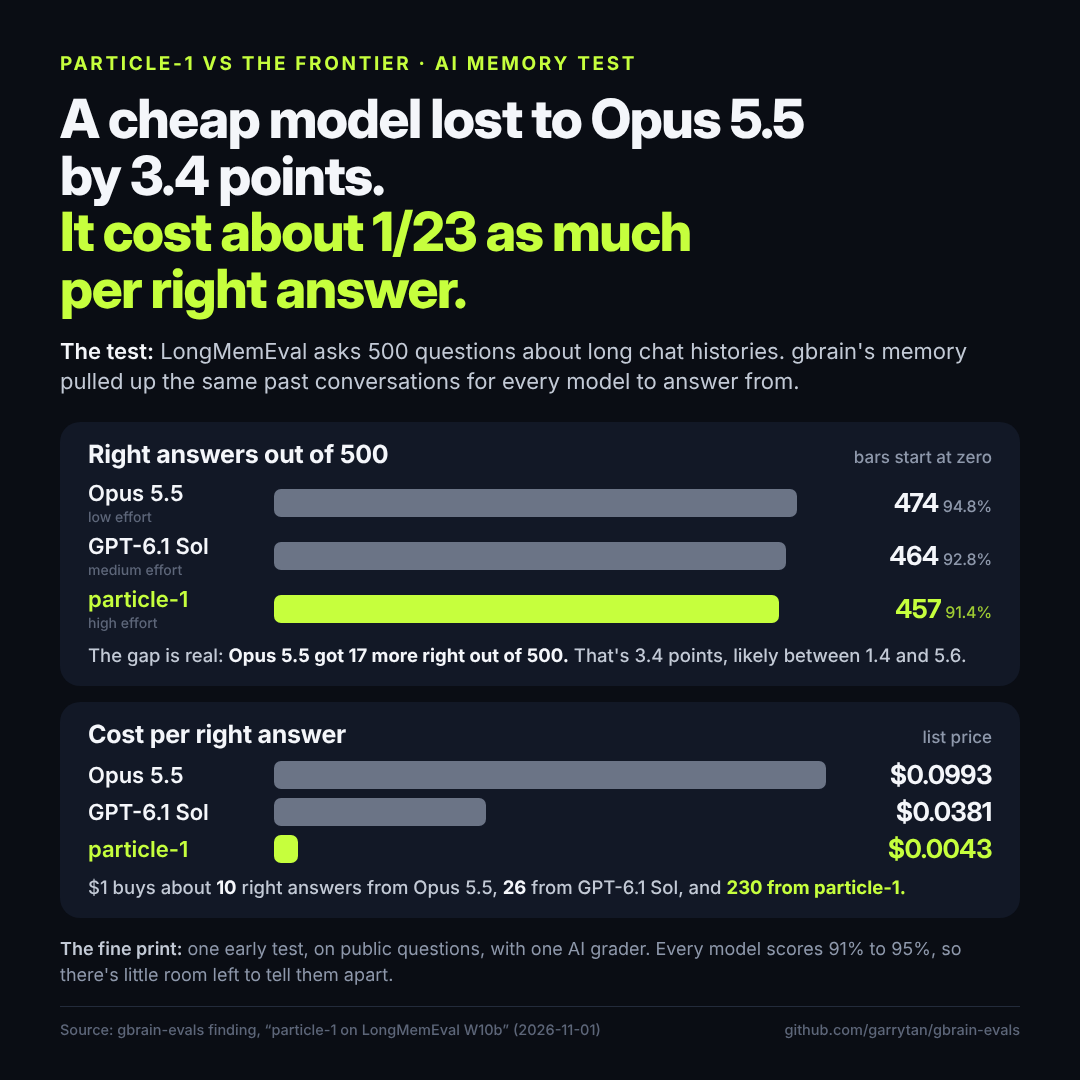
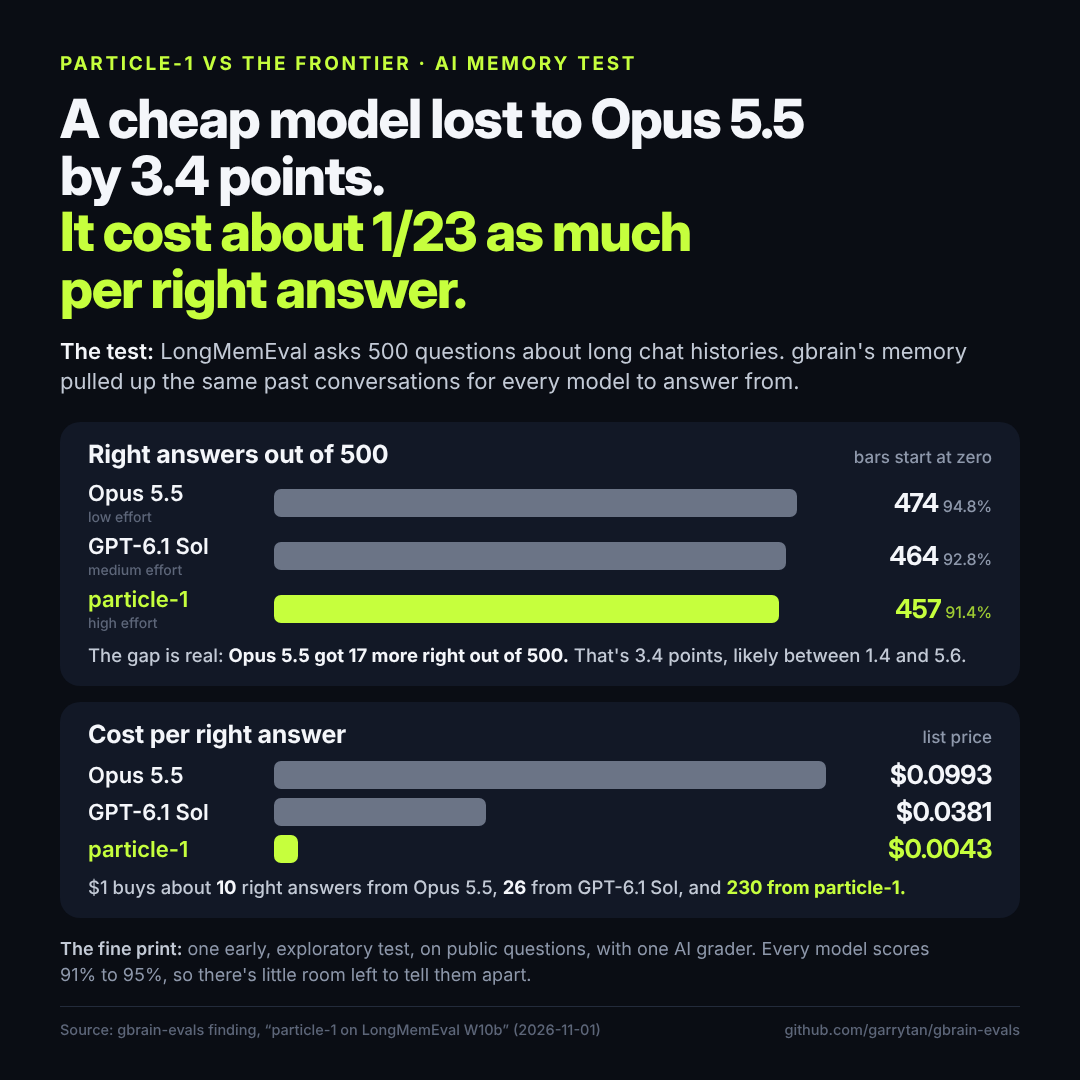
docs: apply the W10b story recheck's wording edits, commit the infographic source and note the replay report's wording

Changed region(s): [[0.0611, 0.8556, 0.8861, 0.9167]]

diff --git a/docs/findings/2026-11-01-particle-1-longmemeval-w10b-infographic.html b/docs/findings/2026-11-01-particle-1-longmemeval-w10b-infographic.html
@@ -1,0 +1,86 @@
+<!doctype html>
+<html lang="en">
+<head>
+<meta charset="utf-8">
+<style>
+  :root {
+    --bg: #0a0d14;
+    --panel: #121826;
+    --ink: #f4f6fa;
+    --muted: #8e98ab;
+    --dim: #5d6679;
+    --rule: #232b3b;
+    --accent: #c6ff3d;
+    --grey: #6b7486;
+  }
+  * { box-sizing: border-box; margin: 0; padding: 0; }
+  html, body { width: 1080px; height: 1080px; background: var(--bg); }
+  body {
+    font-family: "Inter", sans-serif;
+    color: var(--ink);
+    padding: 54px 60px 40px;
+    display: flex; flex-direction: column;
+    -webkit-font-smoothing: antialiased;
+    font-feature-settings: "tnum" 1, "cv11" 1;
+  }
+  .kicker { font: 700 19px/1 "Inter"; letter-spacing: .14em; text-transform: uppercase; color: var(--accent); }
+  h1 { font: 800 54px/1.05 "Inter Display", "Inter"; letter-spacing: -.025em; margin-top: 18px; }
+  h1 .hl { color: var(--accent); }
+  .what { font: 400 22px/1.38 "Inter"; color: #c3cad6; margin-top: 18px; max-width: 940px; }
+  .what b { color: var(--ink); font-weight: 600; }
+  .panels { margin-top: 26px; display: flex; flex-direction: column; gap: 16px; }
+  .panel { background: var(--panel); border-radius: 20px; padding: 20px 28px 18px; }
+  .ptitle { display: flex; justify-content: space-between; align-items: baseline; }
+  .ptitle h2 { font: 700 25px/1 "Inter"; letter-spacing: -.01em; }
+  .ptitle .note { font: 500 17px/1 "Inter"; color: var(--muted); }
+  .rows { margin-top: 14px; display: flex; flex-direction: column; gap: 9px; }
+  .row { display: grid; grid-template-columns: 170px 1fr 150px; align-items: center; gap: 16px; }
+  .name { font: 600 22px/1.1 "Inter"; }
+  .name small { display: block; font: 500 14px/1.2 "Inter"; color: var(--dim); margin-top: 3px; }
+  .track { height: 28px; position: relative; }
+  .bar { position: absolute; left: 0; top: 0; bottom: 0; border-radius: 7px; background: var(--grey); }
+  .row.p .bar { background: var(--accent); }
+  .row.p .name, .row.p .val { color: var(--accent); }
+  .val { font: 700 26px/1 "Inter Display", "Inter"; text-align: right; letter-spacing: -.01em; }
+  .val small { font: 500 16px/1 "Inter"; color: var(--muted); margin-left: 4px; }
+  .row.p .val small { color: #9fcc33; }
+  .foot { margin-top: 12px; font: 500 18.5px/1.35 "Inter"; color: #c3cad6; }
+  .foot b { color: var(--ink); font-weight: 700; }
+  .foot .a { color: var(--accent); font-weight: 700; }
+  .caveat { margin-top: 18px; font: 400 18px/1.4 "Inter"; color: var(--muted); }
+  .caveat b { color: #c3cad6; font-weight: 600; }
+  .source { margin-top: auto; padding-top: 14px; border-top: 1px solid var(--rule); display: flex; justify-content: space-between; font: 500 14.5px/1.3 "Inter"; color: var(--dim); }
+</style>
+</head>
+<body>
+  <div class="kicker">particle-1 vs the frontier &middot; AI memory test</div>
+  <h1>A cheap model lost to Opus&nbsp;5.5<br>by&nbsp;3.4&nbsp;points.<br><span class="hl">It cost about 1/23 as much<br>per right answer.</span></h1>
+  <p class="what"><b>The test:</b> LongMemEval asks 500 questions about long chat histories. gbrain's memory pulled up the same past conversations for every model to answer from.</p>
+
+  <div class="panels">
+    <div class="panel">
+      <div class="ptitle"><h2>Right answers out of 500</h2><span class="note">bars start at zero</span></div>
+      <div class="rows">
+        <div class="row"><div class="name">Opus 5.5<small>low effort</small></div><div class="track"><div class="bar" style="width:94.8%"></div></div><div class="val">474<small>94.8%</small></div></div>
+        <div class="row"><div class="name">GPT-6.1 Sol<small>medium effort</small></div><div class="track"><div class="bar" style="width:92.8%"></div></div><div class="val">464<small>92.8%</small></div></div>
+        <div class="row p"><div class="name">particle-1<small>high effort</small></div><div class="track"><div class="bar" style="width:91.4%"></div></div><div class="val">457<small>91.4%</small></div></div>
+      </div>
+      <p class="foot">The gap is real: <b>Opus 5.5 got 17 more right out of 500.</b> That's 3.4 points, likely between 1.4 and 5.6.</p>
+    </div>
+
+    <div class="panel">
+      <div class="ptitle"><h2>Cost per right answer</h2><span class="note">list price</span></div>
+      <div class="rows">
+        <div class="row"><div class="name">Opus 5.5</div><div class="track"><div class="bar" style="width:100%"></div></div><div class="val">$0.0993</div></div>
+        <div class="row"><div class="name">GPT-6.1 Sol</div><div class="track"><div class="bar" style="width:38.32%"></div></div><div class="val">$0.0381</div></div>
+        <div class="row p"><div class="name">particle-1</div><div class="track"><div class="bar" style="width:4.31%"></div></div><div class="val">$0.0043</div></div>
+      </div>
+      <p class="foot">$1 buys about <b>10</b> right answers from Opus 5.5, <b>26</b> from GPT-6.1 Sol, and <span class="a">230 from particle-1.</span></p>
+    </div>
+  </div>
+
+  <p class="caveat"><b>The fine print:</b> one early, exploratory test, on public questions, with one AI grader. Every model scores 91%&nbsp;to&nbsp;95%, so there's little room left to tell them apart.</p>
+
+  <div class="source"><span>Source: gbrain-evals finding, &ldquo;particle-1 on LongMemEval W10b&rdquo; (2026-11-01)</span><span>github.com/garrytan/gbrain-evals</span></div>
+</body>
+</html>

diff --git a/docs/findings/2026-11-01-particle-1-longmemeval-w10b.md b/docs/findings/2026-11-01-particle-1-longmemeval-w10b.md
@@ -1,4 +1,4 @@
-# Opus 5.5 beats particle-1 by 3.4 points on a memory test, at about 23 times the price per right answer
+# Opus 5.5 beats particle-1 by 3.4 points (95% range 1.4 to 5.6) on a memory test, at about 23 times the price per right answer
 
 ![particle-1 against Opus 5.5 and GPT-6.1 Sol on LongMemEval: right answers out of 500, and cost per right answer at list price](2026-11-01-particle-1-longmemeval-w10b-infographic.png)
 
@@ -15,10 +15,10 @@ Opus 5.5 got 474 right (94.8%), GPT-6.1 Sol 464 (92.8%) and particle-1 457 (91.4
 questions, which is 3.4 points, and the 95% range for that gap runs from 1.4 to 5.6 points, so it stays clear of zero.
 
 particle-1 lost the most ground on advice. A user who once mentioned buying a portable power bank later asks for tips on
-their phone's battery life. Opus 5.5 finds the power-bank conversation and builds its tips around it. particle-1 notices
-the power bank too, then answers: "The information is not available in the retrieved sessions; I don’t know what phone
-battery-life tips were previously discussed." It treats a request for advice as a lookup that came up empty. Advice
-accounts for 7 of Opus 5.5's 17 extra right answers.
+their phone's battery life. Opus 5.5 finds the power-bank conversation and gives general battery tips, ending with one
+to use the power bank. particle-1 notices the power bank too, then answers: "The information is not available in the
+retrieved sessions; I don’t know what phone battery-life tips were previously discussed." Here it treats a request for
+advice as a lookup that came up empty. Advice accounts for 7 of Opus 5.5's 17 extra right answers.
 
 At list prices, a right answer costs $0.0993 from Opus 5.5, $0.0381 from GPT-6.1 Sol and $0.0043 from particle-1. So $1
 buys about 10 right answers from Opus 5.5, about 26 from GPT-6.1 Sol and about 230 from particle-1.
@@ -31,8 +31,8 @@ buys about 10 right answers from Opus 5.5, about 26 from GPT-6.1 Sol and about 2
   comparison.
 - particle-1 and GPT-6.1 Sol are 1.4 points apart, which is too close for this test to tell apart. That does not make
   them equal: a second grader added after the run, and not counted, put particle-1 behind GPT-6.1 Sol by 3.4 points.
-- This is one early test, with one answer per question, one AI grader, and public questions that models may have seen
-  in training.
+- This is one early, exploratory test, with one answer per question, one AI grader, and public questions that models may
+  have seen in training.
 - Opus 5.5 ran at low effort, GPT-6.1 Sol at medium and particle-1 at high. Other settings would change both the scores
   and the costs.
 - It says nothing about gbrain's retrieval itself, other memory tasks, or particle-1 as an agent.
@@ -51,8 +51,9 @@ points behind Opus 5.5 (95% interval 1.4 to 5.6), at about a twenty-third of its
 - **Publication status:** unpublished. Done: a keyless recount of every number from the committed rows, a clean-machine
   rerun and claim check with a cross-family review, which passed the file with edits that this version applies (see [the
   claim check](#the-claim-check)), and dated notes beside the corrected cost figures in the reports this file cites. A
-  recheck of the edited and added lines passed on 2026-11-02. The plain-English summary above rewords these results and
-  is due its own recheck. Still blocking a post: Garry Tan's approval of the post text.
+  recheck of the edited and added lines passed on 2026-11-02. A recheck of the plain-English summary, the infographic
+  and the X post draft passed with edits on 2026-11-02, and this version applies them. Still blocking a post: Garry
+  Tan's approval of the post text.
 - **Record:** `2026-11-01-particle-1-longmemeval-w10b`, a finding, status open.
 - **Grade:** exploratory (the paired comparisons are named in the preregistration as descriptive; the second judge is a
   sensitivity added afterwards).
@@ -342,7 +343,7 @@ the ceiling and from one protocol judge, and Opus 5.5 ran at effort low.
 
 > Opus 5.5 beat particle-1 by 3.4 points on LongMemEval, 500 questions about long chat histories (95% CI 1.4 to 5.6). gbrain's memory pulled the same past conversations for every model. Opus got 474 right, GPT-6.1 Sol 464, particle-1 457.
 >
-> particle-1 lost the most ground on advice, which it treats as a lookup. Ask for phone battery tips after mentioning your new power bank, and Opus 5.5 gives tips that work the power bank in. particle-1 notices the power bank, then answers: "The information is not available in the retrieved sessions; I don’t know what phone battery-life tips were previously discussed."
+> particle-1 lost the most ground on advice, where it sometimes treats the request as a lookup. Ask for phone battery tips after mentioning your new power bank, and Opus 5.5 gives tips that work the power bank in. particle-1 notices the power bank, then answers: "The information is not available in the retrieved sessions; I don’t know what phone battery-life tips were previously discussed."
 >
 > Advice accounts for 7 of Opus's 17 extra right answers.
 >
@@ -358,12 +359,12 @@ particle-1's answer names the power bank before the quoted line, and Opus 5.5's 
 dollar divided by each list cost per correct answer in [Cost](#cost): 10.07 for Opus 5.5 and 233.58 for particle-1,
 from the unrounded figures in [analysis.json](2026-11-01-particle-1-longmemeval-w10b/analysis.json).
 
-The post attaches the infographic at the top of this file. It is 1080 by 1080 pixels, rendered from HTML with headless
-Chrome, so every word and number in it is typed text. Its counts, percentages and effort settings come from
-[Setup](#setup) and [Result](#result), its interval from [What we found](#what-we-found) and its costs from
-[Cost](#cost). "17 more right" is 474 minus 457, and the 26 right answers that $1 buys from GPT-6.1 Sol are one dollar
-divided by its unrounded list cost per correct answer in
-[analysis.json](2026-11-01-particle-1-longmemeval-w10b/analysis.json), $0.03807501 (26.26).
+The post attaches the infographic at the top of this file. It is 1080 by 1080 pixels, a headless Chrome screenshot of
+[its HTML source](2026-11-01-particle-1-longmemeval-w10b-infographic.html), set in the Inter font, so every word and
+number in it is typed text. Its counts, percentages and effort settings come from [Setup](#setup) and [Result](#result),
+its interval from [What we found](#what-we-found) and its costs from [Cost](#cost). "17 more right" is 474 minus 457,
+and the 26 right answers that $1 buys from GPT-6.1 Sol are one dollar divided by its unrounded list cost per correct
+answer in [analysis.json](2026-11-01-particle-1-longmemeval-w10b/analysis.json), $0.03807501 (26.26).
 
 ### The claim check
 
@@ -387,6 +388,15 @@ version applies every edit. The claim-check file, `gbrain-evals-particle-1-w10b`
 | Disclosure of the other companies the file features | Answered | Garry Tan answered on 2026-11-02: the gbrain and OpenAI lines join the Particle line, and Anthropic, DeepSeek and Google get no line. The three lines are only in [Disclosures](#disclosures) at the end, and the X post carries none. The words come from [docs/disclosures.md](../disclosures.md). |
 
 ### Changelog
+
+#### 2026-11-02: The plain-English story's recheck edits
+
+A recheck of the plain-English summary, the infographic and the X post draft passed with five wording edits, and this
+version applies them. The title gives the 95% range of the gap. The summary calls the test exploratory. It says Opus 5.5
+gives general battery tips that end with one to use the power bank, and that particle-1 treats this request for advice
+as a lookup, not every one. The X post says particle-1 sometimes treats an advice request as a lookup. The infographic's
+fine print calls the test exploratory, and its HTML source now sits beside it. The publication status records the
+recheck. No number changed.
 
 #### 2026-11-02: A plain-English summary, disclosures at the end, a new X post and an infographic
 

diff --git a/docs/benchmarks/2026-11-01-longmemeval-particle-replay/REPORT.md b/docs/benchmarks/2026-11-01-longmemeval-particle-replay/REPORT.md
@@ -14,6 +14,8 @@ Measured 2026-11-01, 05:46 to 05:59 UTC. Status: **Complete** (all four arms, 50
 
 **Most of the gap to Opus 5.5 is in preference questions, where particle-1 treats a request for advice as a lookup and declines.** Seven of the 17 net questions are single-session-preference questions: Opus 5.5 answered all 30, particle-1 23. The concrete case below shows the pattern.
 
+*Wording note added 2026-11-02, after publication:* The largest share of the gap to Opus 5.5, 7 of the 17 net questions, is in preference questions, where particle-1 sometimes treats a request for advice as a lookup and declines. Seven of 17 is not most of the gap, and the figures in this report are unchanged.
+
 **On W10c's 150 questions, gbrain's retrieval stays within the preregistered 7-point margin of particle-1 reading the whole history.** particle-1 answered 140 with the whole history (about 108,000 tokens per question) and 135 on gbrain's `c5fb0201` retrieval (about 14,000). Decision G's test passes both comparisons after Holm, particle-1 on gbrain's retrieval against particle-1 on the whole history (one-sided p = 0.036) and Sonnet 5.5 on gbrain's retrieval (W10a's 139) against particle-1 on the whole history (p = 0.035). The first pass is narrow and depends on the test. It rests on nine questions where the two arms disagree (2 for gbrain, 7 against), and Tango's score test, which estimates the variance under the null hypothesis, gives p = 0.060. The registered test is the paired bootstrap, so the verdict stands as registered. As in W10c, this is "within 7 points", not "the same".
 
 **At this history size, a cheap whole-history reader narrows gbrain's cost case.** With particle-1 as the reader, gbrain's recurring cost per question is still about a sixth of the whole history's ($0.0047 against $0.0275 at list, rerank included). But particle-1 reading the whole history costs about what Sonnet 5.5 reading gbrain's retrieval costs at W10's batch price ($0.024), and a little over half of Sonnet's list price ($0.047), while answering 140 against Sonnet-on-gbrain's 139. README's "a seventh of the recurring cost" holds for a fixed reader; across readers it no longer separates gbrain from a long-context model at about 115,000 tokens of history. Per decision G, this report says so; moving README's headline toward histories past 1M tokens is a separate decision.

diff --git a/CHANGELOG.md b/CHANGELOG.md
@@ -4,6 +4,17 @@ This records what each gbrain-evals release changed and what its measurements me
 
 ## [Unreleased]
 
+### The W10b story applies its recheck edits
+
+- **Five wording edits from the recheck of the W10b finding's plain-English story.** The title gives the gap's 95%
+  range, the summary calls the test exploratory and narrows its account of the power-bank answers to what the rows show,
+  and the X post draft says particle-1 sometimes treats an advice request as a lookup. No number changed.
+- **The infographic's source is committed.** Its fine print calls the test exploratory, the PNG is re-rendered, and its
+  HTML source sits beside it.
+- **A wording note in the particle-1 replay report.** It says the preference questions are the largest share of the gap
+  to Opus 5.5, 7 of the 17 net questions, not most of it, and keeps every figure. The finding's `SHA256SUMS` and the
+  `docs/receipts-manifest.json` entry carry the report's new digest.
+
 ### Frontier first, part 2: the live reader sets drop Sonnet, and the guard sees the frozen ones
 
 - **The workload suites read every cell with Opus 5.5.** Their fixed reader was `claude-sonnet-5-5`, a model under
